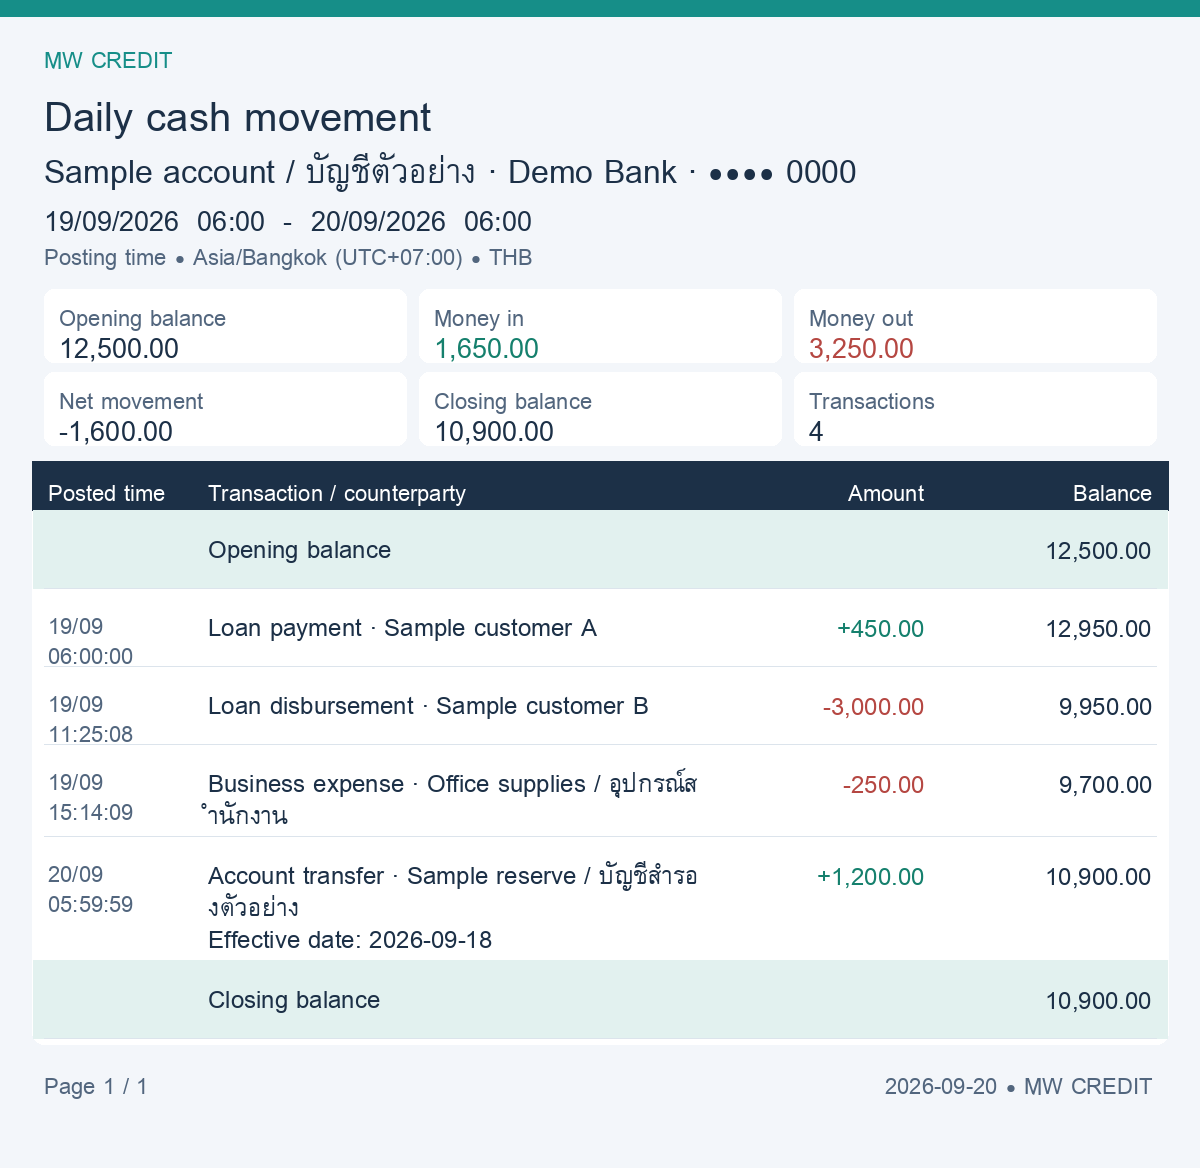
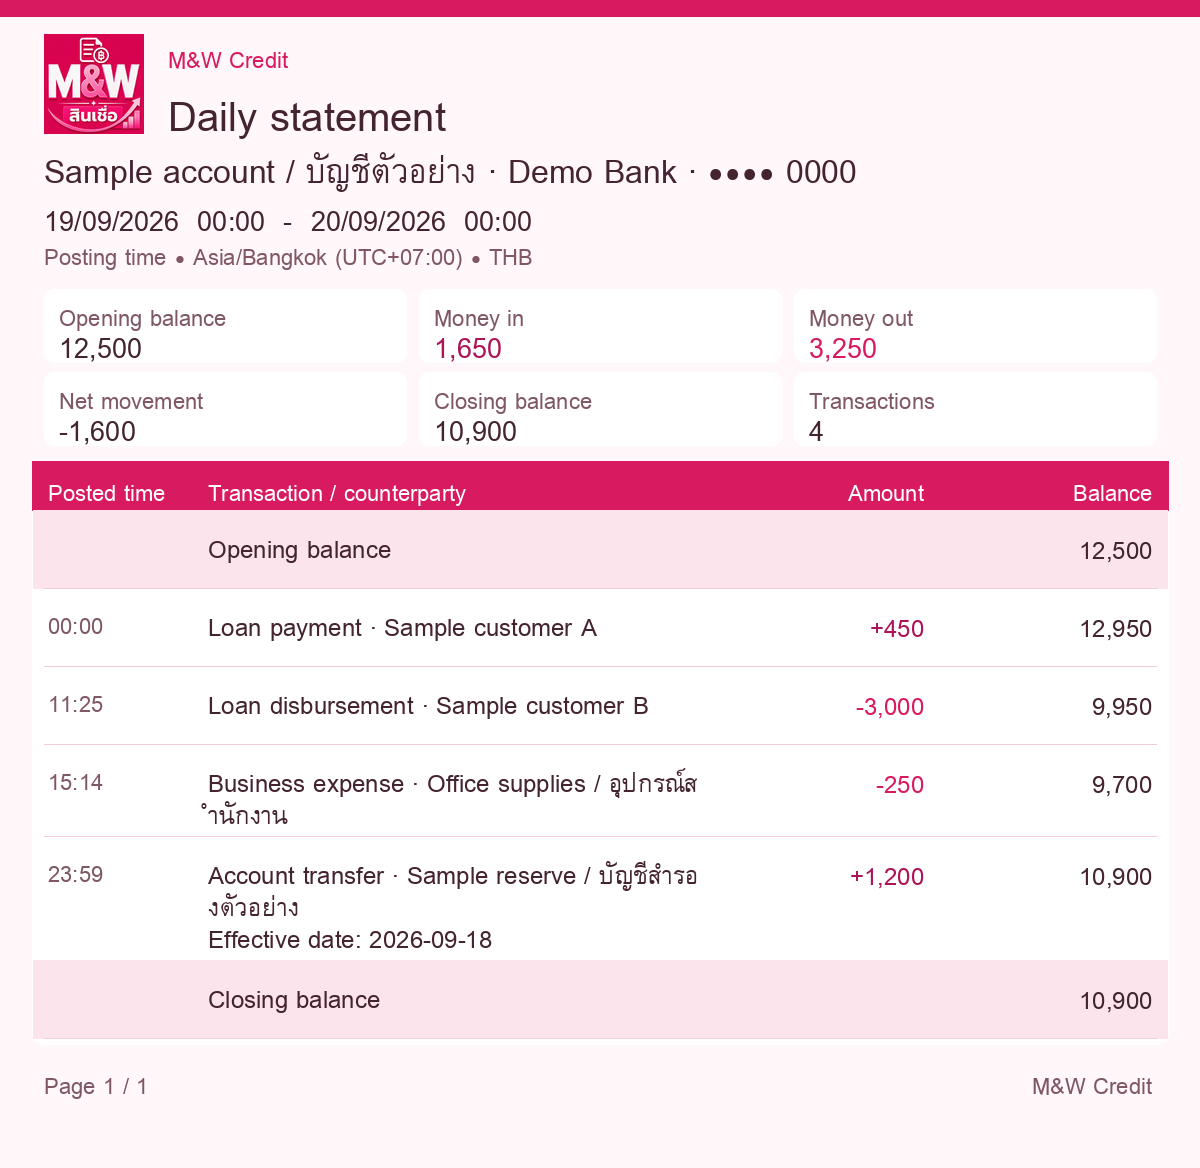
Record branded calendar-day statement verification and delivery

diff --git a/Change Logs/CHANGE_NOTES_DAILY_CASH_STATEMENT_2026-09-20.md b/Change Logs/CHANGE_NOTES_DAILY_CASH_STATEMENT_2026-09-20.md
@@ -10,6 +10,10 @@ The owner then supplied the M&W Credit logo and requested a persistent Debian co
 
 Calendar-day checkpoint `95b7aa1` is installed: all 22 Debian tests passed; four account balances and 19 transaction rows independently reconciled for 19 September 00:00 through 20 September 00:00 Bangkok. Eight private English/Thai images were generated. Delivery is held until the logo is included and visually verified. Refinement rollback package/config: `/var/lib/mw-integration-agent/rollback/cash-statement-20260920T230003` (prior installed implementation `89994d4`, checkout/evidence baseline `5fd7f5b`).
 
[1 lines of base64/hex data omitted]
+
+The revised full-day statements were then sent once to the one currently opted-in Partner in English: **four new images accepted by Meta**, for 19 September 00:00 through 20 September 00:00 Bangkok. The journal now retains eight accepted sends (four historical 06:00-period images plus four revised calendar-day images), with no unknown send. Controls read back sending/processing/writes/daily briefing all false. Scheduling remains off; owner acceptance remains pending. No financial or AppSheet data/configuration change occurred.
+
 ## Scope and authority
 
 Owner requested a daily picture statement for every bank/cash account, an R010-style summary, opening balance, transactions with running balances, and closing balance; send to all Partners with IG Integration Enabled, using each Partner's master Language Preference. Owner explicitly chose posting timestamps for the 06:00–06:00 Bangkok cutoff. Manual generation/delivery is in scope. Scheduling awaits owner satisfaction.

diff --git a/outputs/cash-statement-sample/README.md b/outputs/cash-statement-sample/README.md
@@ -2,6 +2,8 @@
 
 These are synthetic fixtures, not production statements. Images show the revised midnight-to-midnight M&W Credit statement with whole-baht amounts, HH:MM times and #D81B60 branding. They are regenerated on Debian and visually checked in both languages.
 
+Final revision includes the owner-supplied logo, bundled locally in the Debian package. Generated and visually checked at runtime commit `b52febf`.
+
 - `cash-statement-en.png`: English, four example transactions.
 - `cash-statement-th.png`: Thai, same amounts and transactions.
 
